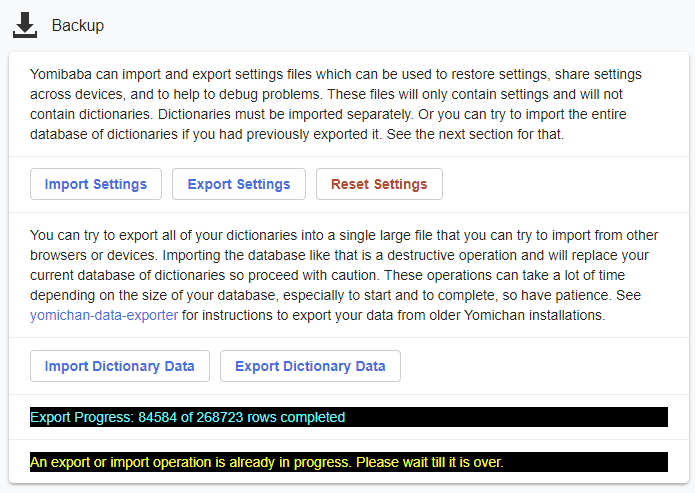
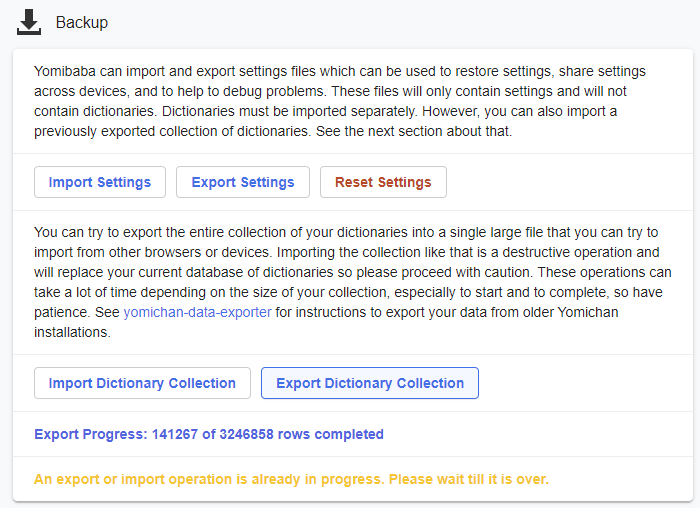
Only tag parse results with sorting freq dict data for search page queries.
This should keep the performance profile pretty much the same as before
even for large search queries while honoring the frequency sorting for
term readings.

Also contains visual updates to honor existing color palette in the
section to import and export dictionary collections.

diff --git a/ext/settings.html b/ext/settings.html
@@ -2037,9 +2037,9 @@
                     used to restore settings, share settings across devices,
                     and to help to debug problems.  These files will only
                     contain settings and will not contain dictionaries.
-                    Dictionaries must be imported separately. Or you can try to
-                    import the entire database of dictionaries if you had
-                    previously exported it. See the next section for that.
+                    Dictionaries must be imported separately. However, you can
+                    also import a previously exported collection of
+                    dictionaries. See the next section about that.
                 </div>
             </div>
         </div></div>
@@ -2062,14 +2062,16 @@
         <div class="settings-item"><div class="settings-item-inner">
             <div class="settings-item-left">
                 <div class="settings-item-label">
-                    You can try to export all of your dictionaries into a
-                    single large file that you can try to import from other
-                    browsers or devices. Importing the database like that is a
-                    destructive operation and will replace your current
-                    database of dictionaries so proceed with caution. These
-                    operations can take a lot of time depending on the size of
-                    your database, especially to start and to complete, so have
-                    patience.
+                    You can try to export the entire collection of your
+                    dictionaries into a single large file that you can try to
+                    import from other browsers or devices. Importing the
+                    collection like that is a destructive operation and will
+                    replace your current database of dictionaries so please
+                    proceed with caution. These operations can take a lot of
+                    time depending on the size of your collection, especially at
+                    the start and at the end, so have patience.
+
+                    <br><br>
 
                     See <a href="https://github.com/forsakeninfinity/yomichan-data-exporter" target="_blank" rel="noopener noreferrer">yomichan-data-exporter</a> for
                     instructions to export your data from older Yomichan installations.
@@ -2080,11 +2082,11 @@
             <div class="settings-item-right settings-item-button-group-container">
                 <div class="settings-item-button-group">
                     <div class="settings-item-button-group-item">
-                        <button class="low-emphasis" id="settings-import-db-button">Import Dictionary Data</button>
+                        <button class="low-emphasis" id="settings-import-db-button">Import Dictionary Collection</button>
                         <div hidden><input type="file" id="settings-import-db" accept=".json,application/json"></div>
                     </div>
                     <div class="settings-item-button-group-item">
-                        <button class="low-emphasis" id="settings-export-db-button">Export Dictionary Data</button>
+                        <button class="low-emphasis" id="settings-export-db-button">Export Dictionary Collection</button>
                     </div>
                 </div>
             </div>
@@ -3852,7 +3854,12 @@
 
 <!-- Scripts -->
 <script src="/lib/dexie.min.js"></script>
+
+<!-- The linter enforces a lexicographical order for each 'group' of imported scripts as demarked by newline between groups
+     but this extension to dexie must be loaded after the main dexie library, hence breaking it out into its own group.
+     Perhaps The linter could be smarter and ignore 3p libaries for import order. -->
 <script src="/lib/dexie-export-import.min.js"></script>
+
 <script src="/lib/wanakana.min.js"></script>
 
 <script src="/js/core.js"></script>

diff --git a/ext/js/pages/settings/backup-controller.js b/ext/js/pages/settings/backup-controller.js
@@ -429,12 +429,12 @@ class BackupController {
         errorMessageContainer.style.display = 'block';
         errorMessageContainer.textContent = message;
 
-        if (isWarning) { // Hide after 3 seconds (3000 milliseconds)
-            errorMessageContainer.style.color = '#FFFF00';
+        if (isWarning) { // Hide after 5 seconds (5000 milliseconds)
+            errorMessageContainer.style.color = '#FFC40C';
             setTimeout(function _hideWarningMessage() {
                 errorMessageContainer.style.display = 'none';
-                errorMessageContainer.style.color = '#EE4B2B';
-            }, 3000);
+                errorMessageContainer.style.color = '#8B0000';
+            }, 5000);
         }
     }
 
@@ -491,12 +491,12 @@ class BackupController {
         console.log(`Progress: ${completedRows} of ${totalRows} rows completed`);
         const messageContainer = document.querySelector('#db-ops-progress-report');
         messageContainer.style.display = 'block';
-        messageContainer.style.color = '#00FFFF';
+        messageContainer.style.color = '#4169e1';
         messageContainer.textContent = `Import Progress: ${completedRows} of ${totalRows} rows completed`;
 
         if (done) {
             console.log('Done importing.');
-            messageContainer.style.color = '#99FF99';
+            messageContainer.style.color = '#006633';
             messageContainer.textContent = 'Done importing. You will need to re-enable the dictionaries and refresh afterward. If you run into issues, please restart the browser. If it continues to fail, reinstall Yomibaba and import dictionaries one-by-one.';
         }
     }

diff --git a/ext/js/language/translator.js b/ext/js/language/translator.js
@@ -92,7 +92,11 @@ class Translator {
         }
 
         if (mode === 'simple') {
-            this._clearTermTags(dictionaryEntries);
+            if (sortFrequencyDictionary == null) {
+                this._clearTermTags(dictionaryEntries);
+            } else {
+                await this._addSortFreqTagOnly(dictionaryEntries, enabledDictionaryMap, sortFrequencyDictionary);
+            }
         } else {
             await this._addTermMeta(dictionaryEntries, enabledDictionaryMap);
             await this._expandTermTags(dictionaryEntries);
@@ -619,6 +623,18 @@ class Translator {
 
     _clearTermTags(dictionaryEntries) {
         this._getTermTagTargets(dictionaryEntries);
+    }
+
+    _pickFromMap(sourceMap, keysToPick) {
+        // Just a helper to get a subset of the source map with only the picked keys present.
+        return keysToPick
+            .filter(key => sourceMap.has(key))
+            .reduce((subMap, key) => subMap.set(key, sourceMap.get(key)), new Map());
+    }
+
+    async _addSortFreqTagOnly(dictionaryEntries, enabledDictionaryMap, sortFrequencyDictionary) {
+        const dictMapWithOnlySortDict = this._pickFromMap(enabledDictionaryMap, [sortFrequencyDictionary]);
+        await this._addTermMeta(dictionaryEntries, dictMapWithOnlySortDict);
     }
 
     async _expandTermTags(dictionaryEntries) {

diff --git a/ext/js/background/backend.js b/ext/js/background/backend.js
@@ -1122,8 +1122,8 @@ class Backend {
 
     async _textParseScanning(text, scanLength, optionsContext) {
         const jp = this._japaneseUtil;
+        const mode = 'simple';
         const options = this._getProfileOptions(optionsContext);
-        const {general: {resultOutputMode: mode}} = options;
         const details = {matchType: 'exact', deinflect: true};
         const findTermsOptions = this._getTranslatorFindTermsOptions(mode, details, options);
         const results = [];

diff --git a/ext/css/settings.css b/ext/css/settings.css
@@ -680,14 +680,14 @@ select.short-height {
     padding-right: var(--padding);
 }
 .settings-item-progress-report {
-    background-color: #000;
     display: none;
-    color: #00FFFF;
+    font-weight: bold;
+    color: #4169e1;
 }
 .settings-item-error-report {
-    background-color: #000;
     display: none;
-    color: #EE4B2B;
+    font-weight: bold;
+    color: #8b0000;
 }
 
 
